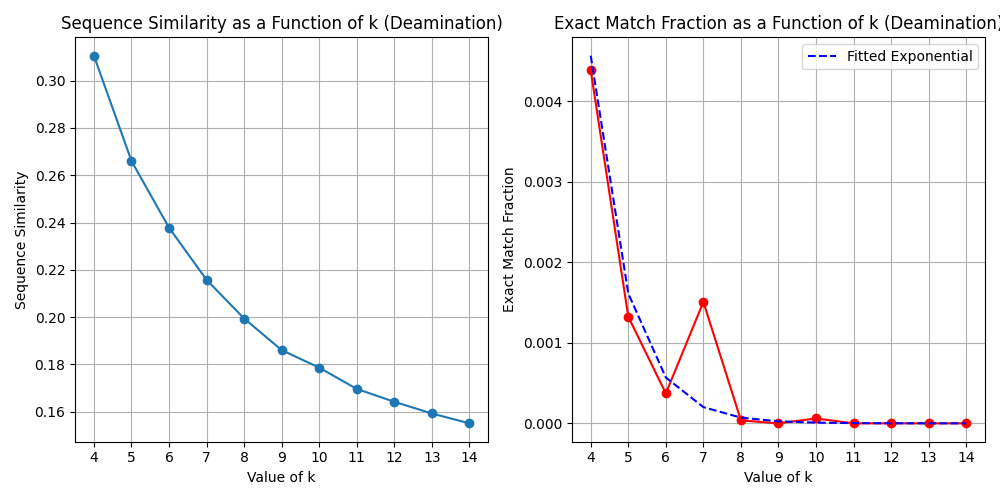
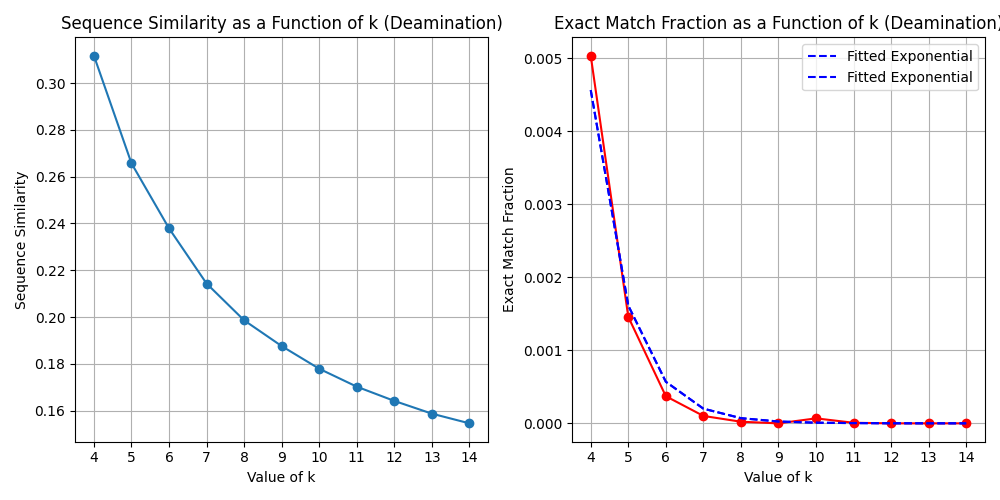
Update

diff --git a/simulations/avg_mismatch/main.py b/simulations/avg_mismatch/main.py
@@ -147,6 +147,26 @@ fitted_data = exp_func(np.array(k_values), a, b)
 # Plot fitted data
 plt.plot(k_values, fitted_data, label='Fitted Exponential', linestyle='--', color='blue')
 plt.legend()
+
+# --- Start of exponential fit ---
+# If this part appears in the wrong plot, feel free to remove it
+
+# Fitted exponential curve
+def exp_func(x, a, b):
+    return a * np.exp(-b * x)
+
+# Fitted parameters
+a = 0.2934
+b = 1.0408
+
+# Generate fitted data
+fitted_data = exp_func(np.array(k_values), a, b)
+
+# Plot fitted data
+plt.plot(k_values, fitted_data, label='Fitted Exponential', linestyle='--', color='blue')
+plt.legend()
+
+# --- End of exponential fit ---
 plt.savefig("mismatch.png")
 
 
